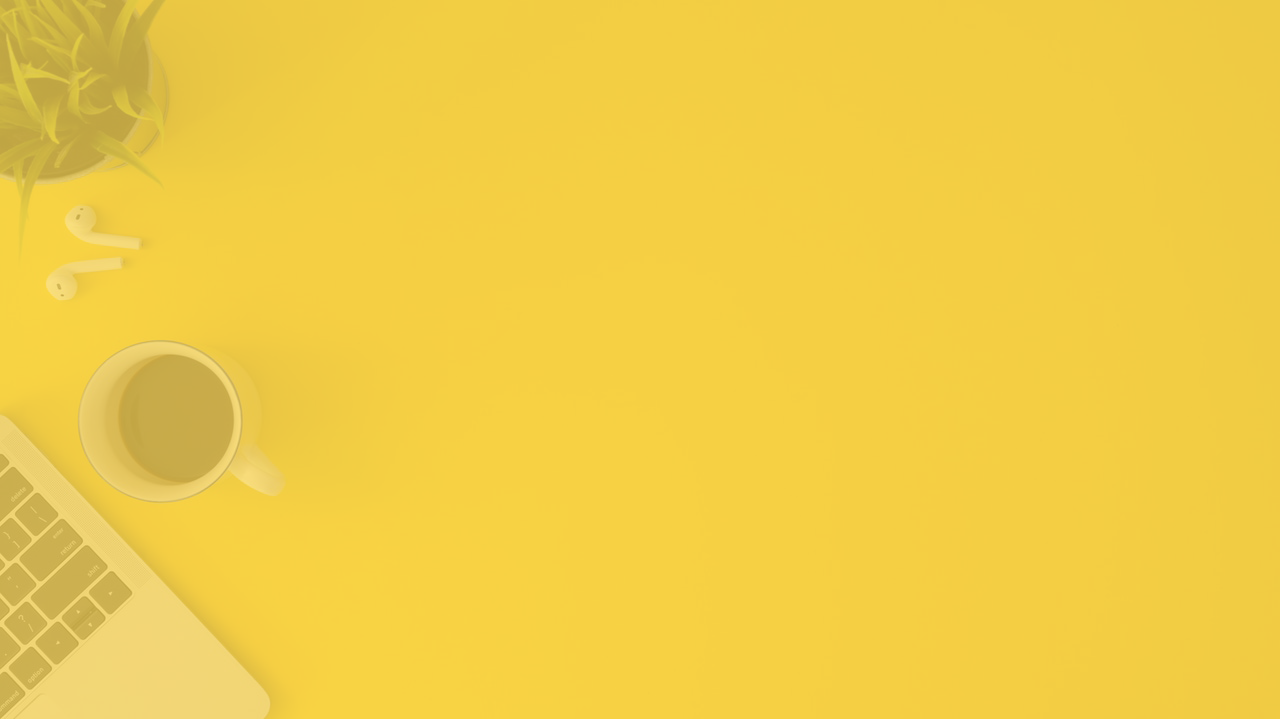
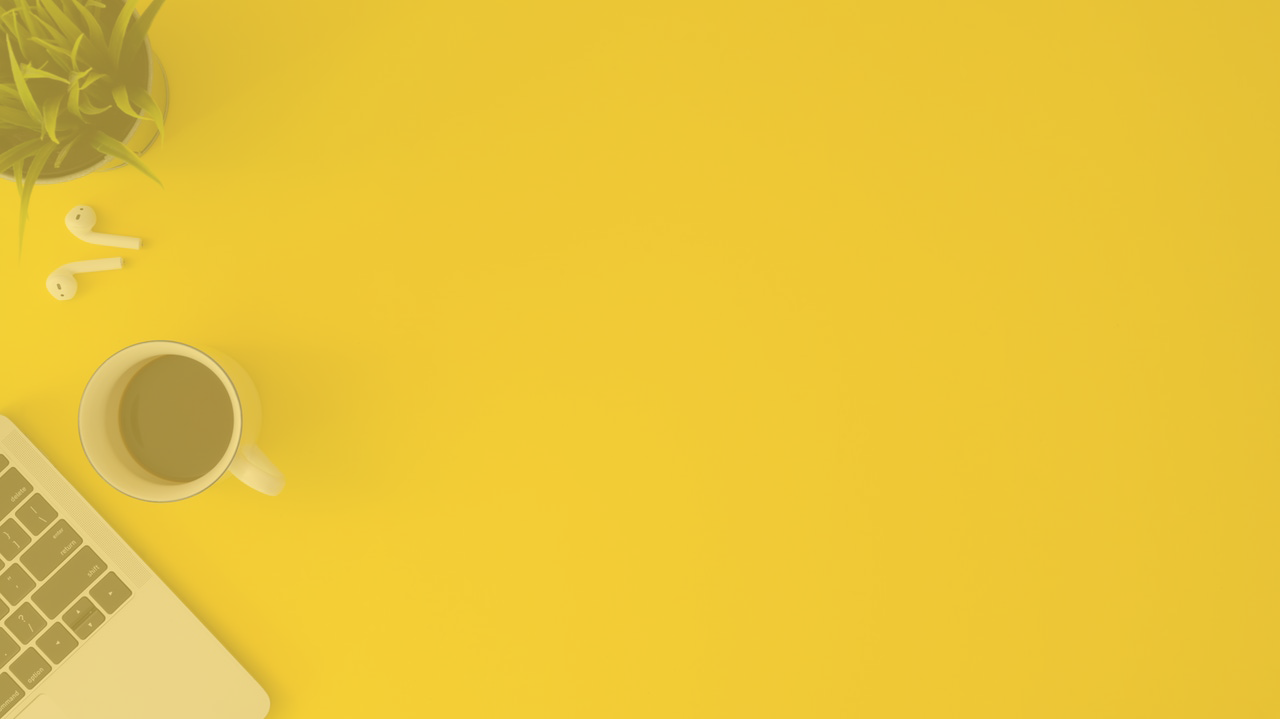
adding backgrounds and project images

Changed region(s): [[0.0, 0.0, 0.125, 0.2754], [0.0, 0.6426, 0.125, 1.0], [0.0938, 0.4896, 0.1875, 0.6732]]

diff --git a/src/components/Contact.jsx b/src/components/Contact.jsx
@@ -1,5 +1,5 @@
 import React, { Fragment, useState } from 'react';
-import Background from '../images/fondo02.png';
+import Background from '../images/fondo-portafolio.png';
 import gmail from '../images/contactCard-gmail.png'
 import github from '../images/contactCard-github.png'
 import linkedin from '../images/contactCard-linkedin.png'
@@ -26,9 +26,9 @@ const Contact = () => {
                 <h2 className="subtitle">Contacto</h2>
 
                 <div className="contactInfo">
-                    <p>Puedes encontrarme en las siguientes redes:</p>
+                    <p className="contactDescription">Puedes encontrarme en las siguientes redes:</p>
 
-                    <div className="carousel-contact">
+                    <div className="carousel-contact responsive">
                         <Carousel activeIndex={index} onSelect={handleSelect}>
 
                             <Carousel.Item>
@@ -38,7 +38,7 @@ const Contact = () => {
                                     alt="First slide"
                                 />
                                 <Carousel.Caption>
-                                    <h3>Correo</h3>
+                                    <h3 className="contactCard">Correo</h3>
                                     <a 
                                         href="https://mail.google.com/mail/u/0/#inbox" 
                                         target="blank"
@@ -53,7 +53,7 @@ const Contact = () => {
                                     alt="Second slide"
                                 />
                                 <Carousel.Caption>
-                                    <h3>GitHub</h3>
+                                    <h3 className="contactCard">GitHub</h3>
                                     <a 
                                         href="https://github.com/tamaramunoz" 
                                         target="blank"
@@ -69,7 +69,7 @@ const Contact = () => {
                                     alt="Third slide"
                                 />
                                 <Carousel.Caption>
-                                    <h3>LinkedIn</h3>
+                                    <h3 className="contactCard">LinkedIn</h3>
                                     <a href="https://www.linkedin.com/in/tamara-munoz-zamora/" target="blank"> /tamara-munoz-zamora </a>
                                 </Carousel.Caption>
                             </Carousel.Item>

diff --git a/src/App.css b/src/App.css
@@ -1,10 +1,13 @@
 *{
   padding: 0;
   margin: 0;
+  background-attachment: fixed;
+  background-repeat: no-repeat;
+  background-size: cover;
 }
 
 .nav {
-  background-color: #3e35a2;
+  background-color: #a59fe1;
 }
 
 .navL {
@@ -19,12 +22,6 @@
   
   .background-blue {
     background-color: #2d98da;
-  }
-
-  .background-image {
-    background-image: url('https://www.pexels.com/es-es/foto/persona-mujer-mano-flores-3746197/');
-    background-repeat: no-repeat;
-    background-size: cover;
   }
 
 .subtitle {
@@ -66,20 +63,47 @@
 
 .contactInfo {
  text-align: center;
+
+}
+
+.contactDescription {
+  font-family: 'Sen', sans-serif;
+  color: #271e85;
+  margin-bottom: 25px;
+  
+}
+
+.contactCard {
+  font-family: 'Sen', sans-serif;
+  color: #ffda59;
 }
 
 .carousel-contact {
   margin-left: 35%;
   margin-right: 30%;
   max-width: 30%;
-  margin-bottom: 30px;
   font-family: 'Sen', sans-serif;
+  
 }
 
 .footer {
   padding: 20px;
   background-color: #3e35a2;
   color: #ffeba8;
+  align-items: flex-end;
   text-align:  center;
   font-family: 'Sen', sans-serif;
 }
+
+
+/* @media only screen and (max-width: 480px) {
+  body {
+    background-image: url(images/background_480.jpg);
+  }
+}
+
+@media only screen and (max-width: 1280px) {
+  body {
+    background-image: url(images/background_1280.jpg);
+  }
+} */

diff --git a/src/components/Portfolio.jsx b/src/components/Portfolio.jsx
@@ -1,5 +1,12 @@
-import React, { Fragment,useState, useEffect } from 'react'
+import React, { Fragment, useState, useEffect } from 'react'
 import Accordions from "./Accordion";
+import Background from '../images/fondo-portafolio.png';
+
+let sectionStyle = {
+    width: "100%",
+    height: "700px",
+    backgroundImage: `url(${Background})`
+  };
 
 const Portfolio = () => {
 
@@ -19,11 +26,13 @@ const Portfolio = () => {
 
     return (
         <Fragment>
-            <div className="portfolioBg">
+            <div style={ sectionStyle }>
                 <h2 className="subtitle">Portafolio</h2>
+
                 <div className="projectsContainer">
-                    <Accordions project={project} />
+                    <Accordions project={project} /> 
                 </div>
+
             </div>
         </Fragment>
     );

diff --git a/src/components/Profile.jsx b/src/components/Profile.jsx
@@ -10,10 +10,10 @@ let sectionStyle = {
 const Profile = () => {
     return (
         <Fragment>
-            <section style={ sectionStyle }>
-                <h2 className="subtitle">Perfil</h2>
+            <div style={ sectionStyle } >
+                <h2 className="subtitle">Acerca</h2>
                 <p className="profileText">Desarrolladora Front-End, disfruto probar nuevas tecnologías por eso es que estoy siempre preparada para aprender e integrar nuevos conocimientos y habilidades. Me caracterizo por tener capacidad de adaptación, compromiso con las actividades que desarrollo y responsabilidad.</p>
-            </section>
+            </div>
         </Fragment>
     );
 }

diff --git a/src/components/Accordion.jsx b/src/components/Accordion.jsx
@@ -15,6 +15,7 @@ const Accordions = (props) => {
                 <Card >
                   <Accordion.Toggle as={Card.Header} eventKey="1">
                     {item.title}
+                    <img src={item.img} alt=""></img>
                   </Accordion.Toggle>
                   <Accordion.Collapse eventKey="1">
 

diff --git a/src/App.js b/src/App.js
@@ -43,8 +43,6 @@ function App() {
         <Route path="/experience" component={Experience} />
         <Route path="/contact" component={Contact} />
 
-
-
       </Router>
       <footer>
         <Footer />
